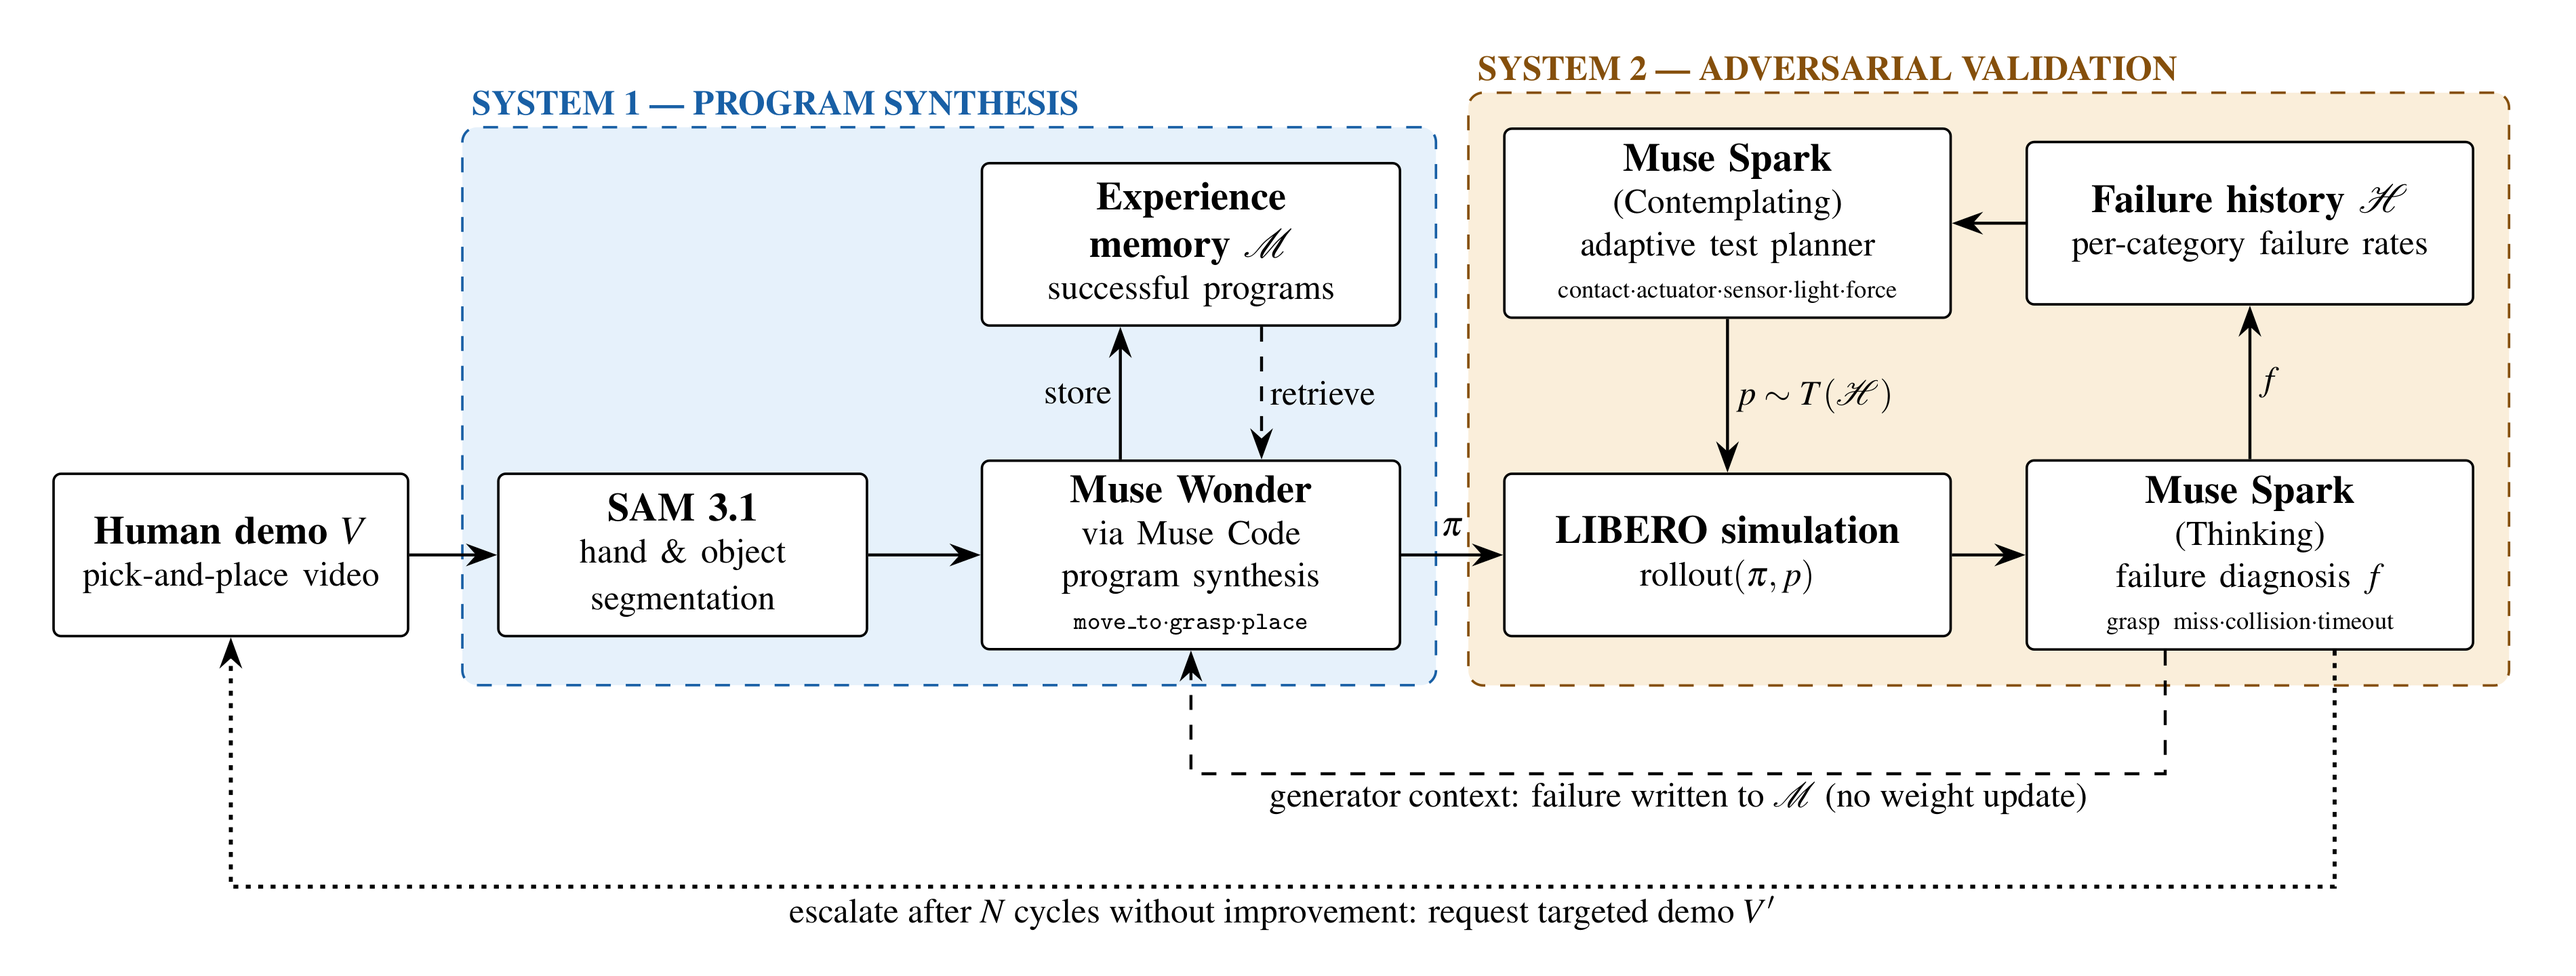
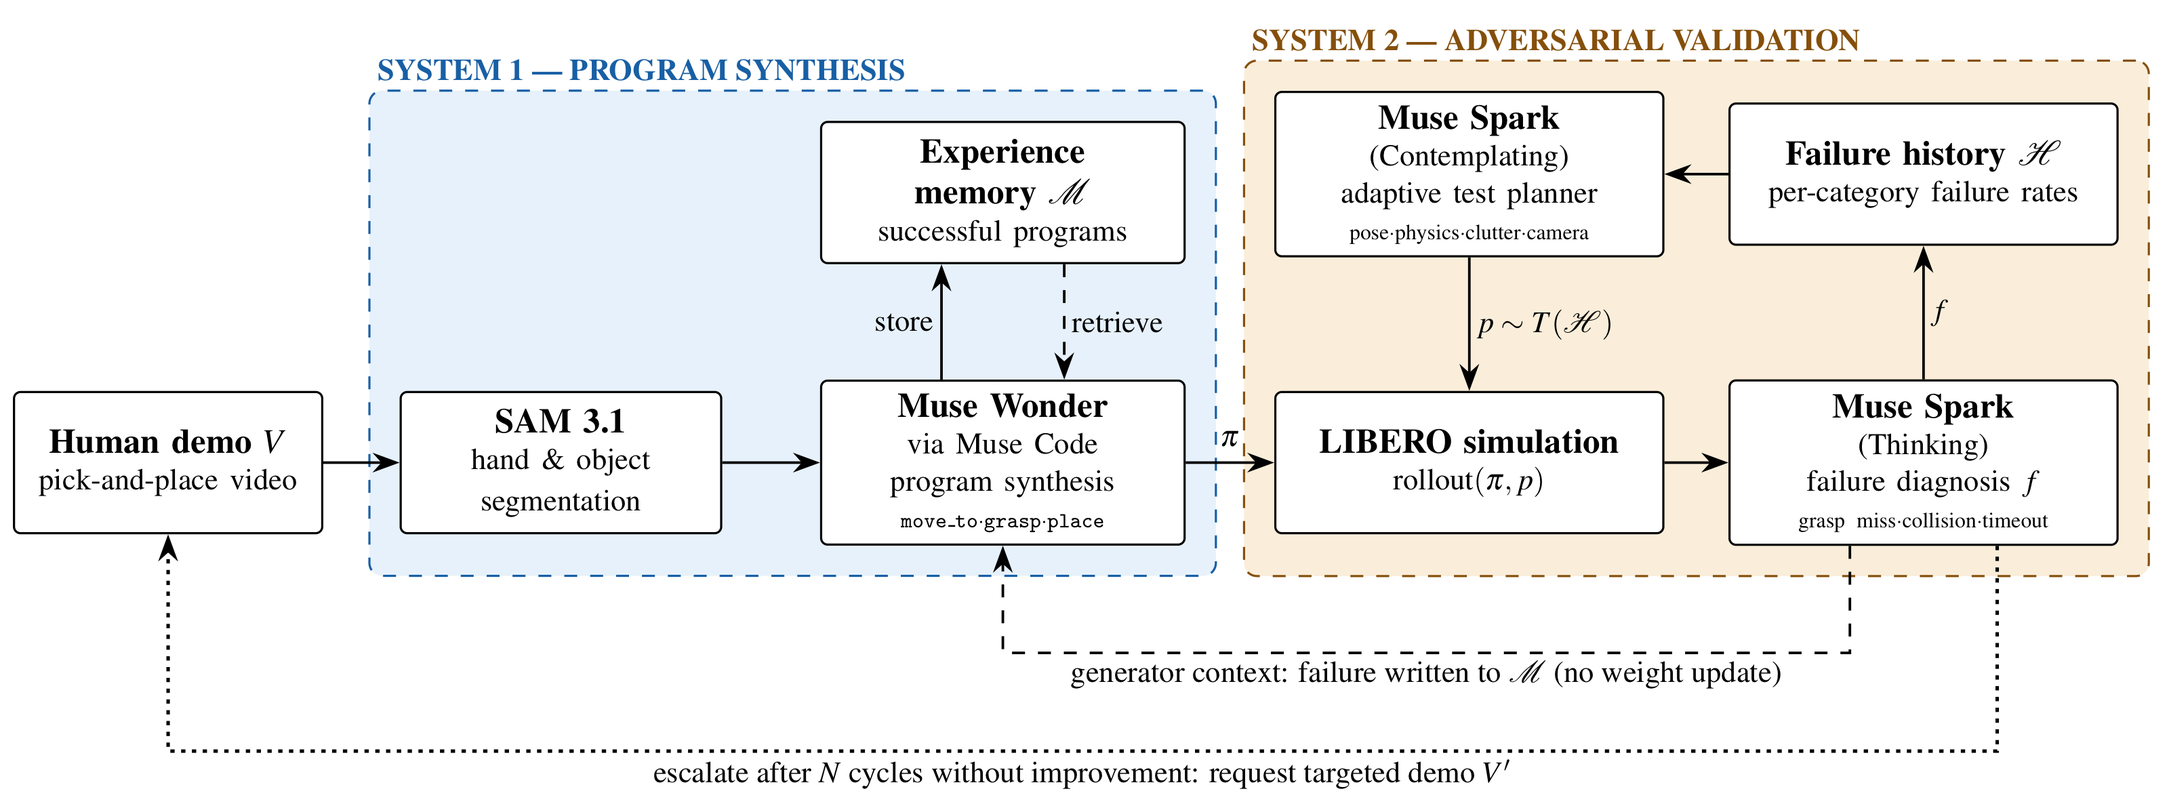
README: use the paper's system figure instead of the text diagram
Replaces docs/images/architecture.png with the paper's current overview
figure (overview.pdf from the full-paper Overleaf, rendered at 3200 px;
categories now pose, physics, clutter, camera) and shows it in the
Solution section. A one-line caption states where the hackathon build
differs from the figure: marker-tracked demo with SAM 3 as perception,
experience memory as future work, and the regression gate.

diff --git a/README.md b/README.md
@@ -12,13 +12,9 @@ Robots learn one task at a time from lots of data, and nobody can say when they 
 
 ## Solution
 
-```
-one human video ─▶ SYSTEM 1 writes a program ─▶ SYSTEM 2 attacks it in simulation
-                          ▲                                   │ failure
-                          └── rewrite ◀── constraint ◀── diagnosis
-                                   │
-                         GATE: accept only if no worse on every case seen so far
-```
+![ANTS: System 1 writes a program from one human demo, System 2 attacks it in simulation](docs/images/architecture.png)
+
+*Figure from the paper. In this build the demo is marker-tracked (SAM 3 is the robot's perception in simulation), the experience memory is future work, and every rewrite passes a regression gate.*
 
 | Part | What it does |
 |---|---|
